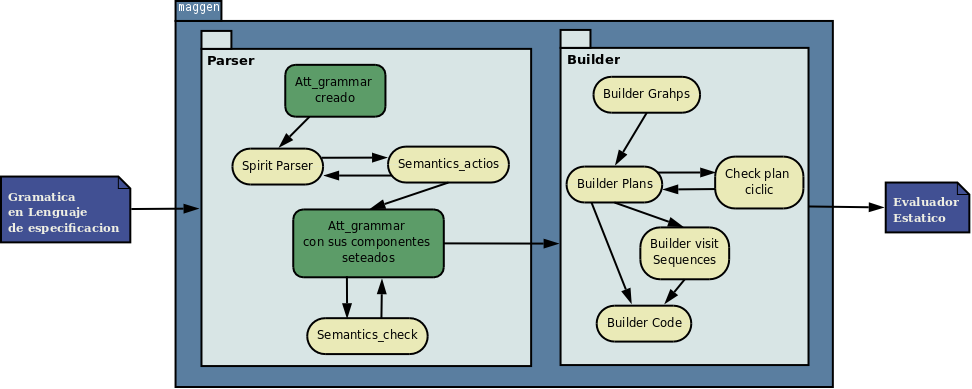
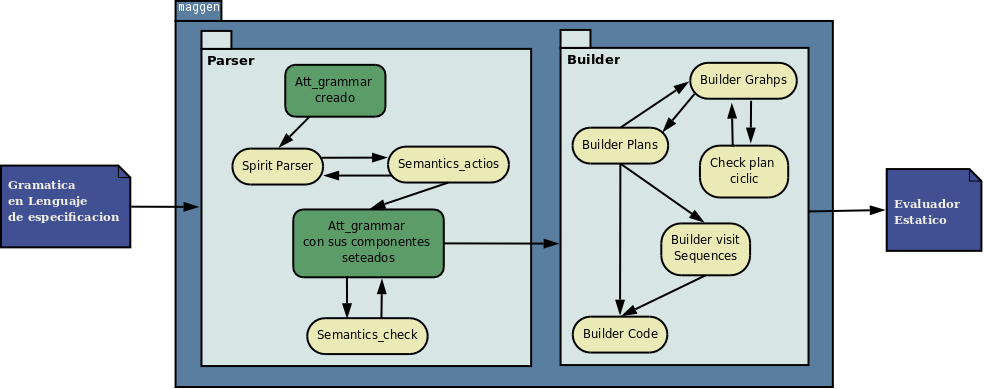
dise: computacion de planes

Changed region(s): [[0.0, 0.0, 1.0, 1.0], [0.3086, 0.7095, 0.463, 0.9254]]

diff --git a/Dise.tex b/Dise.tex
@@ -494,7 +494,8 @@ En la figura \ref{fig:disen} se presenta un diagrama que muestra la interacción
 \end{figure}
 Analicemos ahora el diseño de los paquetes nombrados arriba, y con ellos la estructura \texttt{Attr\_grammar}.  En la figura \ref{fig:disen2} se muestra un diagrama con la representación interna de una gramática dentro de \maggen. Notemos algunas observaciones del diseño que muestra el diagrama:
 \begin{itemize}
-\item La relación entre los paquetes se produce por un lado, mediante la clase \texttt{Rule}, en el sentido de que toda regla contiene un conjunto de ecuaciones y cada una de estas esta definida a través de un \textit{l\_value:}\texttt{Exp\_instance} y un \textit{r\_value:}\texttt{Expression}. Por otro lado, \texttt{Exp\_instance} se vincula con \texttt{Symbol} y \texttt{Attribute} y \texttt{Exp\_function} con \texttt{Function}.
+\item La relación entre los paquetes se produce por un lado, mediante la clase \texttt{Rule}, en el sentido de que toda regla contiene un conjunto de ecuaciones y cada una de estas esta definida a través de un \textit{l\_value:}\texttt{Expr\_instance} y un \textit{r\_value:}\texttt{Expression}. Por otro lado, \texttt{Expr\_instance} se vincula con \texttt{Symbol} y \texttt{Attribute} y \texttt{Expr\_function} con \texttt{Function}.
+
 \item Toda la información de una gramática de atributos esta representada en la clase \texttt{Attr\_grammar} y por ende, el ciclo de vida de cada de uno de sus componentes es administrado por esta clase, durante todo el funcionamiento de \maggen. 
 \end{itemize}
 
@@ -574,21 +575,54 @@ La construcción de grafos se realiza en el modulo \texttt{builder\_graphs}. \ma
 \item ADP graph. Ver figura$^{\ref{foot:graph}}$  \ref{adpgraph} generado a partir del ejemplo analizado en el apéndice \ref{append:agwuuyang}.
 \end{itemize}
 
-La construcción de cada tipo de grafo respeta los principios analizados en el capitulo XXX.
+La construcción de cada tipo de grafo respeta los principios analizados en el capitulo XXX. 
+
+Dentro de los 4 tipos de grafos analizados, los necesarios para el computo de etapas siguientes, son los ``ADP graph''. Los demas tipos de grafo, son requeridos como calculo previo para la construcción de los ADP.
 
 
 \subsection*{Construcción de planes}
-La estapa de contruccion de planes, tal como lo muetra el diagrama de la figura \ref{fig:disen}, se realiza en el paquete ``Builder''. El calculo de planes en \maggen\ se basó en los visto en el cap XXX, donde podemos destacar dos cosas muy imortante a tener en cuenta:
+La etapa de construcción de planes, tal como lo muestra el diagrama de la figura \ref{fig:disen}, se realiza en el paquete ``Builder''. El calculo de planes en \maggen\ se basa en lo analizado en el cap XXX y teniendo en cuenta estos dos puntos:
+
 \begin{enumerate}
 \item El punto de entrada para el calculo de los planes esta dado sobre los grafos ADP. 
-\item El calculo de planes se basa en un orden topologico de la evaluacion de los atributos de los simbolos, teniendo en cuenta los distintos contextos posibles.
+\item El calculo de planes se basa en un orden topológico de la evaluación de los atributos de los símbolos, teniendo en cuenta los distintos contextos posibles.
 \end{enumerate}
- En lo que sigue de la seccion entraremos en detalle sobre el punto 2.
-bla blab alb albal...
-\subsection*{Construcción de secuencias de visita}
-La etapa de construcción de secuencias de visita, tal como lo muestra el diagrama de la figura \ref{fig:disen}, se realiza en el paquete ``Builder''. El calculo de secuencias de visita en \maggen\ son computados a partir de los diferentes planes obtenidos en el capitulo anterior.
+En la sección XXX se tratan detalles de implementación, en donde podemos analizar el funcionamientos de lo que tratamos anteriormente, en especial el punto 2.
 
-El funcionamiento básico del calculo esta dado por la aplicación de una especie de \textit{simulación} de la evaluación de cada atributo de los símbolos. Esta consiste en evaluar la ecuacion obteniendo sus dependencias de sus posibles contextos, entonces, de esta forma se obtienen las visitas a realizar para la computación de cada una de las instancias\footnote{Recordemos, en este punto, que una instancia es considerada una aparición del símbolo y que se compone de símbolo, índice y atributo.} de cada regla de la gramática.
+
+\subsection*{Construcción de secuencias de visita}
+La etapa de construcción de secuencias de visita, tal como lo muestra el diagrama de la figura \ref{fig:disen}, se realiza en el paquete ``Builder''. Las mismas, son computados a partir de los diferentes planes obtenidos en el sección anterior.
+
+El funcionamiento para la construcción de las secuencias, esta dado por la aplicación de una especie de \textit{simulación}, para la evaluación de cada atributo de los símbolos. El resultado de esta simulación, son los valores que conforman la secuencia de visita, donde la interpretación de ellos son: 
+\begin{description}
+\item [Compute] Valor mayor que cero que representa el numero de la ecuacion a resolver\footnote{La ecuación a computar pertenece a la regla del plan corriente.}.
+\item [Visit] valor menor que cero que representa el numero nodo hijo a visitar\footnote{El nodo hijo esta dado por el contexto de la regla del plan corriente.}.
+\item [Leave] valor ``0''.
+\end{description}
+A modo de ejemplo observemos las siguientes secuencias de visita generada por \maggen\ para el ejemplo analizado en el apéndice \ref{append:agwuuyang}:
+\begin{description}
+\item [\{-7,0,-8\}] Secuencia de visita para la regla \texttt{P3} (sin contexto inferior). En este caso, la secuencia de visita se traduce a lo siguiente:
+\begin{enumerate}
+\item \textbf{Computar} la ecuacion 7.
+\item \textbf{Leave}\footnote{El leave retorna el control a la secuencia de visita de contexto superior, es decir, desde donde se invocó a esta secuencia.}.
+\item \textbf{Computar} la ecuacion 8.
+\end{enumerate}
+
+\item [\{-11,1,-12,-10\}] Secuencia de visita para la regla \texttt{P5} con el contexto de \texttt{P2}. En este caso, la secuencia de visita se traduce a lo siguiente:
+\begin{enumerate}
+\item \textbf{Computar} la ecuacion 11.
+\item \textbf{Visitar} el nodo hijo 1, es decir \texttt{Y}, como el contexto es \texttt{P2}, significa visitar a P2.
+\item \textbf{Computar} la ecuacion 12.
+\item \textbf{Computar} la ecuacion 10.
+\end{enumerate}
+
+\end{description}
+Cabe aclarar que todas las secuencias de visita tienen una \textbf{leave} implícito al final, es decir, cuando se completo la computación de la secuencia se retorna a su ámbito de invocación.
+
+\underline{Heurística de la simulación:}\\
+
+
+Esta consiste en evaluar la ecuacion obteniendo sus dependencias de sus posibles contextos, entonces, de esta forma se obtienen las visitas a realizar para la computación de cada una de las instancias\footnote{Recordemos, en este punto, que una instancia es considerada una aparición del símbolo y que se compone de símbolo, índice y atributo.} de cada regla de la gramática.
 
 \section{Generación de Código}
 La etapa final de \maggen\ esta dado por la generación de código para el evaluador estático. 
